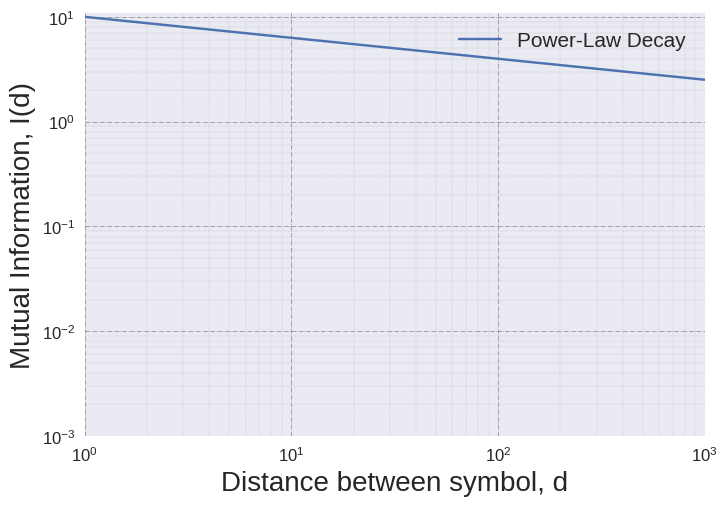
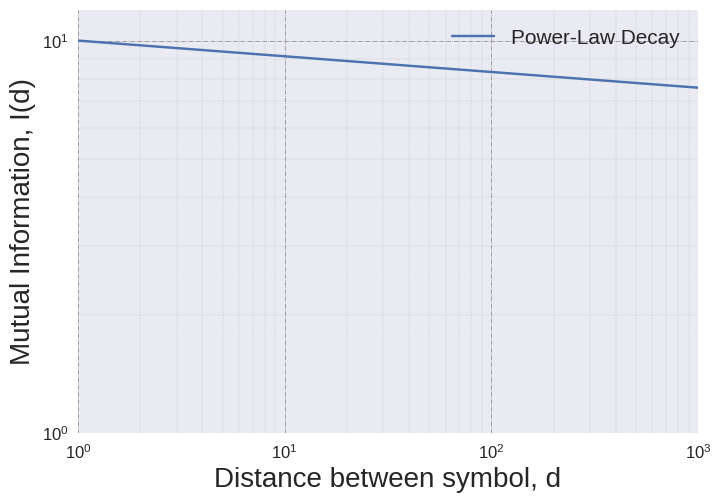
Up

diff --git a/paper_related/framework.py b/paper_related/framework.py
@@ -12,21 +12,21 @@ with plt.style.context(('seaborn')):
 
     ##########################################################################################################################
 
-    break_point = 5
-    alpha_1 = 0.2
-    alpha_2 = 0.04
-    amplitude = 7
-    f = models.BrokenPowerLaw1D(amplitude=amplitude, x_break=break_point, alpha_1=alpha_1, alpha_2=alpha_2)
-    fit_sample = f(x)
-    p1 = plt.loglog(x, fit_sample, label="Broken Power-Law Decay")
+    # break_point = 5
+    # alpha_1 = 0.2
+    # alpha_2 = 0.04
+    # amplitude = 7
+    # f = models.BrokenPowerLaw1D(amplitude=amplitude, x_break=break_point, alpha_1=alpha_1, alpha_2=alpha_2)
+    # fit_sample = f(x)
+    # p1 = plt.loglog(x, fit_sample, label="Broken Power-Law Decay")
 
     ##########################################################################################################################
 
-    # a = 10
+    a = 10
     # alpha = 0.2 # Deep
-    # # alpha = 0.04 # Shallow
-    # y = a*pow(x,-alpha)
-    # p2 = plt.loglog(x, y, label="Power-Law Decay")
+    alpha = 0.04 # Shallow
+    y = a*pow(x,-alpha)
+    p2 = plt.loglog(x, y, label="Power-Law Decay")
 
     ##########################################################################################################################
 
@@ -49,15 +49,15 @@ with plt.style.context(('seaborn')):
     # p4 = plt.loglog(x, y, label="Power-Law Decay with Periodicity")
 
     ##########################################################################################################################
-    # ax = plt.axes()
-    # lgd = ax.legend(loc='upper right', shadow=True, fancybox=True, prop={'size': 15})
-    # plt.tick_params(labelsize='large', width=3)
-    # plt.grid(True)
-    # plt.grid(which='major', linestyle='-.', linewidth='0.5', color='grey')
-    # plt.grid(which='minor', linestyle=':', linewidth='0.2', color='grey')
-    # ax.set_xlim(1.0, 1000.0)
-    # #ax.set_ylim(0.001, 11)
-    # ax.set_xlabel('Distance between symbol, d', fontsize=20)
-    # ax.set_ylabel('Mutual Information, I(d)', fontsize=20)
-    # plt.savefig('pl_broken', bbox_extra_artists=(lgd,), bbox_inches='tight')
+    ax = plt.axes()
+    lgd = ax.legend(loc='upper right', shadow=True, fancybox=True, prop={'size': 15})
+    plt.tick_params(labelsize='large', width=3)
+    plt.grid(True)
+    plt.grid(which='major', linestyle='-.', linewidth='0.5', color='grey')
+    plt.grid(which='minor', linestyle=':', linewidth='0.2', color='grey')
+    ax.set_xlim(1.0, 1000.0)
+    ax.set_ylim(1, 12)
+    ax.set_xlabel('Distance between symbol, d', fontsize=20)
+    ax.set_ylabel('Mutual Information, I(d)', fontsize=20)
+    plt.savefig('pl_shallow', bbox_extra_artists=(lgd,), bbox_inches='tight')
     plt.show()
